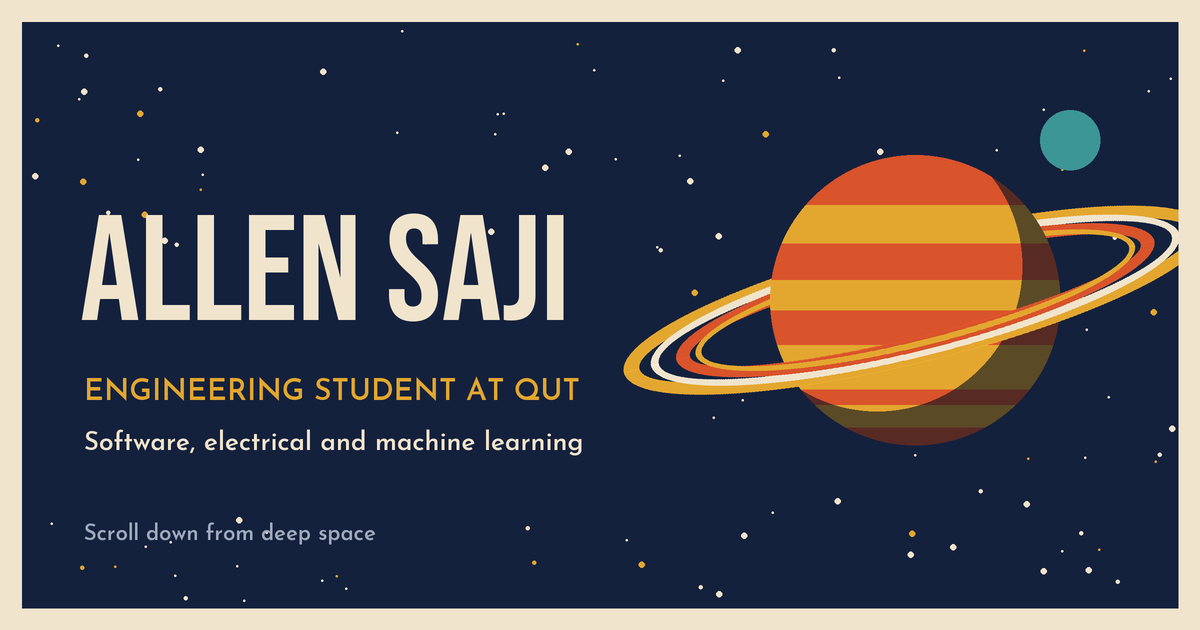
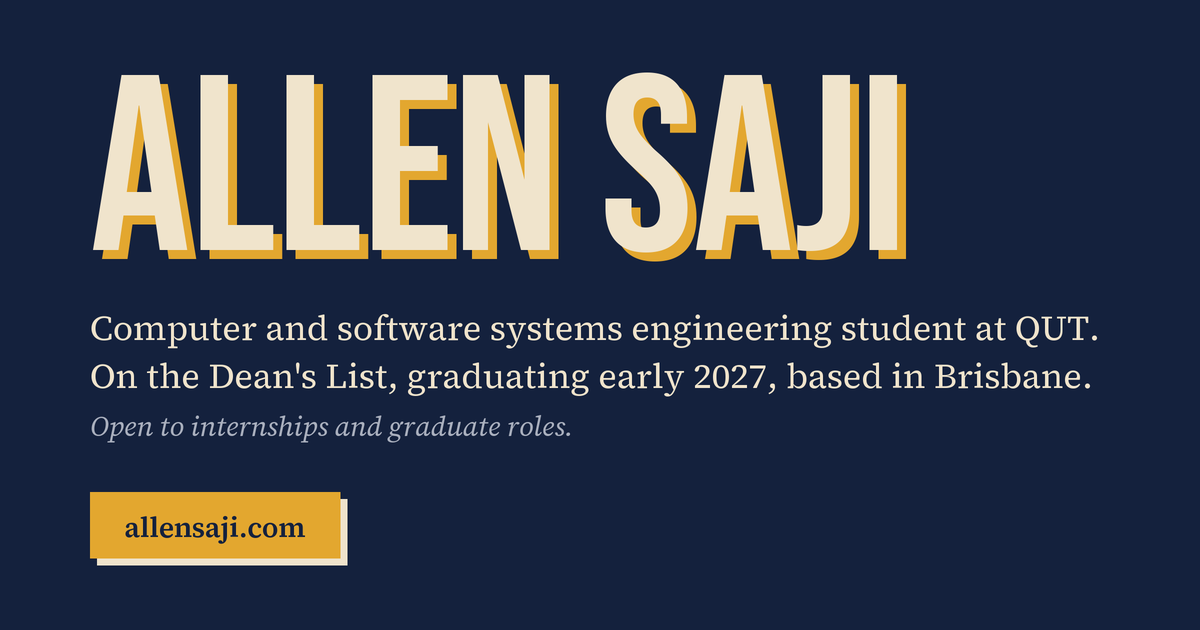
Plain link preview in the portfolio's style

diff --git a/portfolio/index.html b/portfolio/index.html
@@ -9,7 +9,7 @@
     <meta property="og:image" content="https://allensaji.com/og.png" />
     <meta property="og:image:width" content="1200" />
     <meta property="og:image:height" content="630" />
-    <meta property="og:image:alt" content="Allen Saji, portfolio: a retro poster of a ringed planet in deep space" />
+    <meta property="og:image:alt" content="Allen Saji, engineering student at QUT, open to internships and graduate roles" />
     <meta name="twitter:card" content="summary_large_image" />
     <meta name="twitter:image" content="https://allensaji.com/og.png" />
     <meta property="og:type" content="website" />

diff --git a/index.html b/index.html
@@ -14,7 +14,7 @@
     <meta property="og:image" content="https://allensaji.com/og.png" />
     <meta property="og:image:width" content="1200" />
     <meta property="og:image:height" content="630" />
-    <meta property="og:image:alt" content="Allen Saji, engineering student: a retro poster of a ringed planet in deep space" />
+    <meta property="og:image:alt" content="Allen Saji, engineering student at QUT, open to internships and graduate roles" />
     <meta name="twitter:card" content="summary_large_image" />
     <meta name="twitter:image" content="https://allensaji.com/og.png" />
   </head>
